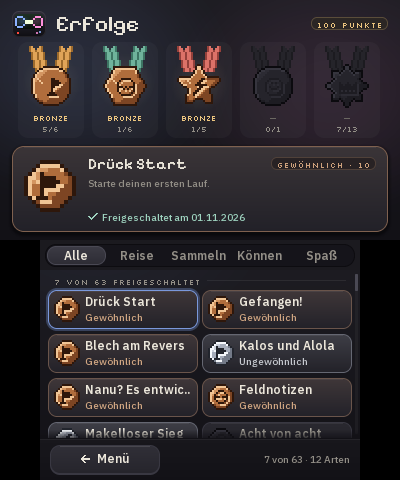
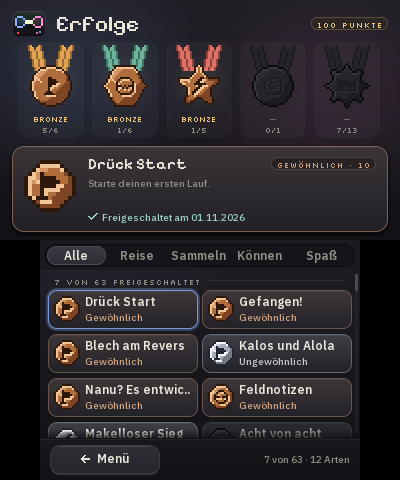
Medals: emblems in the middle – odd grid with a centre column, emblems centred by their ink
Same fix as the desktop app's 002c367: 25×32 cells with the body centred on cell (12, 20), ribbon
tails at 4…10 / 14…20, emblems trimmed to their ink and placed at CX − ceil((w−1)/2). The coins
place their emblems the same way. Test: every kind and tier has a mirror-symmetric body and the
emblem's ink centre at most half a cell up/left of the body's centre. Screenshots re-rendered.

diff --git a/common/ui.cpp b/common/ui.cpp
@@ -522,14 +522,31 @@ static bool medalInside(int kind, float x, float y) {
   }
 }
 
-// a body (shape) with outline, bevel lit from the top left, sheen and an engraved emblem, into `grid` (0 = empty)
-static void metalBody(uint32_t *grid, int W, int H, float CX, float CY, bool (*inside)(int, float, float), int kind, const uint32_t *pal,
-                      bool locked, const char *const *em, int ew, int eh) {
-  auto in = [&](int x, int y) { return x >= 0 && y >= 0 && x < W && y < H && inside(kind, x - CX, y - CY); };
+// the part of an emblem that has ink (some – the crown – don't fill their 9×9 box)
+struct Ink {
+  int x0 = 0, y0 = 0, w = 0, h = 0;
+};
+static Ink emblemInk(const char *const *em, int ew, int eh) {
+  int x0 = ew, x1 = -1, y0 = eh, y1 = -1;
+  for (int j = 0; j < eh; j++)
+    for (int i = 0; i < ew; i++)
+      if (em[j][i] == '#') x0 = std::min(x0, i), x1 = std::max(x1, i), y0 = std::min(y0, j), y1 = std::max(y1, j);
+  Ink k;
+  if (x1 < 0) return k;
+  k.x0 = x0, k.y0 = y0, k.w = x1 - x0 + 1, k.h = y1 - y0 + 1;
+  return k;
+}
+
+// a body (shape) with outline, bevel lit from the top left, sheen and an engraved emblem, into `grid` (0 = empty).
+// The centre (CX, CY) is a whole cell of an odd-sized body, so it has a middle column and row; the emblem's ink goes
+// onto it (an even extent leans up/left – the light lip below-right evens it out). `k`: the bevel's scale (1 = medal).
+static void metalBody(uint32_t *grid, int W, int H, int CX, int CY, bool (*inside)(int, float, float), int kind, const uint32_t *pal,
+                      bool locked, const char *const *em, int ew, int eh, float k, int *inkBox = nullptr) {
+  auto in = [&](int x, int y) { return x >= 0 && y >= 0 && x < W && y < H && inside(kind, (float)(x - CX), (float)(y - CY)); };
   for (int y = 0; y < H; y++)
     for (int x = 0; x < W; x++) {
       if (!in(x, y)) continue;
-      float dx = x - CX, dy = y - CY;
+      float dx = (float)(x - CX), dy = (float)(y - CY);
       uint32_t col;
       if (!in(x - 1, y) || !in(x + 1, y) || !in(x, y - 1) || !in(x, y + 1)) col = pal[0];
       else {
@@ -538,24 +555,27 @@ static void metalBody(uint32_t *grid, int W, int H, float CX, float CY, bool (*i
         if (rim) col = lit ? pal[4] : pal[1];
         else {
           float d = dx + dy;
-          col = d < -9 * (W / 24.f) ? pal[3] : d < 6 * (W / 24.f) ? pal[2] : pal[1];
-          if (!locked && std::fabs(dx - dy + 3 * (W / 24.f)) <= 0.6f && d < -5 * (W / 24.f)) col = pal[4];
+          col = d < -9 * k ? pal[3] : d < 6 * k ? pal[2] : pal[1];
+          if (!locked && std::fabs(dx - dy + 3 * k) <= 0.6f && d < -5 * k) col = pal[4];
         }
       }
       grid[y * W + x] = col | 0xff000000u;
     }
-  int ox = (int)std::lround(CX - ew / 2.f + 0.5f), oy = (int)std::lround(CY - eh / 2.f + 0.5f);
+  Ink ink = emblemInk(em, ew, eh);
+  if (!ink.w) return;
+  int ox = CX - ink.w / 2, oy = CY - ink.h / 2;  // = CX - ceil((w - 1) / 2)
+  if (inkBox) inkBox[0] = ox, inkBox[1] = oy, inkBox[2] = ox + ink.w - 1, inkBox[3] = oy + ink.h - 1;
+  auto at = [&](int i, int j) { return i >= 0 && j >= 0 && i < ink.w && j < ink.h && em[ink.y0 + j][ink.x0 + i] == '#'; };
   uint32_t groove = (locked ? pal[1] : pal[0]) | 0xff000000u, lip = (locked ? pal[3] : pal[4]) | 0xff000000u;
-  for (int j = 0; j < eh; j++)
-    for (int i = 0; i < ew; i++) {
-      if (em[j][i] != '#') continue;
+  for (int j = 0; j < ink.h; j++)
+    for (int i = 0; i < ink.w; i++) {
+      if (!at(i, j)) continue;
       int x = ox + i + 1, y = oy + j + 1;
-      bool nextIsGroove = j + 1 < eh && i + 1 < ew && em[j + 1][i + 1] == '#';
-      if (x < W && y < H && grid[y * W + x] && !nextIsGroove) grid[y * W + x] = lip;
+      if (x < W && y < H && grid[y * W + x] && !at(i + 1, j + 1)) grid[y * W + x] = lip;
     }
-  for (int j = 0; j < eh; j++)
-    for (int i = 0; i < ew; i++)
-      if (em[j][i] == '#' && grid[(oy + j) * W + ox + i]) grid[(oy + j) * W + ox + i] = groove;
+  for (int j = 0; j < ink.h; j++)
+    for (int i = 0; i < ink.w; i++)
+      if (at(i, j) && grid[(oy + j) * W + ox + i]) grid[(oy + j) * W + ox + i] = groove;
 }
 
 static void blitGrid(Canvas &c, int x, int y, const uint32_t *grid, int W, int H, int s) {
@@ -566,9 +586,13 @@ static void blitGrid(Canvas &c, int x, int y, const uint32_t *grid, int W, int H
     }
 }
 
-void drawMedal(Canvas &c, int x, int y, int kind, int tier, int scale) {
-  const int W = 24, H = 31;
-  uint32_t grid[W * H] = {};
+static const int MEDAL_SHAPE[5] = {0, 1, 2, 0, 4};  // journey circle, collection hexagon, skill star, fun circle, champion burst
+
+MedalCells medalCells(int kind, int tier) {
+  MedalCells m;
+  m.px.assign(MedalCells::W * MedalCells::H, 0);
+  uint32_t *grid = m.px.data();
+  const int W = MedalCells::W;
   bool locked = tier < 0;
   const uint32_t *pal = METALS[locked ? 5 : std::min(tier, 4)];
   kind = std::max(0, std::min(4, kind));
@@ -576,7 +600,7 @@ void drawMedal(Canvas &c, int x, int y, int kind, int tier, int scale) {
   uint32_t rib0 = locked ? 0x25242a : RIBBONS[kind][0], rib1 = locked ? 0x1c1b20 : RIBBONS[kind][1];
   for (int yy = 0; yy < 13; yy++) {
     int lean = (int)std::lround((12 - yy) / 4.0);
-    int tails[2][2] = {{4 - lean, 10 - lean}, {13 + lean, 19 + lean}};
+    int tails[2][2] = {{4 - lean, 10 - lean}, {14 + lean, 20 + lean}};
     for (auto &t : tails) {
       float mid = (t[0] + t[1]) / 2.f;
       for (int xx = t[0]; xx <= t[1]; xx++) {
@@ -586,9 +610,17 @@ void drawMedal(Canvas &c, int x, int y, int kind, int tier, int scale) {
       }
     }
   }
-  static const int SHAPE[5] = {0, 1, 2, 0, 4};  // journey circle, collection hexagon, skill star, fun circle, champion burst
-  metalBody(grid, W, H, 11.5f, 19.5f, medalInside, SHAPE[kind], pal, locked, EMBLEMS[kind], 9, kind == 4 ? 7 : 9);
-  blitGrid(c, x, y, grid, W, H, scale);
+  int box[4] = {0, 0, -1, -1};
+  metalBody(grid, W, MedalCells::H, MedalCells::CX, MedalCells::CY, medalInside, MEDAL_SHAPE[kind], pal, locked, EMBLEMS[kind], 9, 9, 1.f, box);
+  for (int i = 0; i < 4; i++) m.ink[i] = box[i];
+  for (int y = 0; y < MedalCells::H; y++)
+    for (int x = 0; x < W; x++) m.body.push_back(medalInside(MEDAL_SHAPE[kind], (float)(x - MedalCells::CX), (float)(y - MedalCells::CY)));
+  return m;
+}
+
+void drawMedal(Canvas &c, int x, int y, int kind, int tier, int scale) {
+  MedalCells m = medalCells(kind, tier);
+  blitGrid(c, x, y, m.px.data(), MedalCells::W, MedalCells::H, scale);
 }
 
 static bool coinInside(int, float x, float y) { return x * x + y * y <= 6.4f * 6.4f; }
@@ -598,7 +630,7 @@ void drawCoin(Canvas &c, int x, int y, int scale, int cat, int rarity, bool lock
   uint32_t grid[W * H] = {};
   const uint32_t *pal = METALS[locked ? 5 : std::max(0, std::min(4, rarity))];
   const char *const *em = COIN7[locked ? (hidden ? 5 : 4) : std::max(0, std::min(3, cat))];
-  metalBody(grid, W, H, 6.f, 6.f, coinInside, 0, pal, locked, em, 7, 7);
+  metalBody(grid, W, H, 6, 6, coinInside, 0, pal, locked, em, 7, 7, 13 / 24.f);
   blitGrid(c, x, y, grid, W, H, scale);
 }
 

diff --git a/common/ui.h b/common/ui.h
@@ -86,7 +86,16 @@ void drawProgress(Canvas &c, int x, int y, int w, int h, int n, int total, Color
 void drawPips(Canvas &c, int x, int y, int n, int total, Color on);  // badges: small diamonds
 void drawPageDots(Canvas &c, int cx, int y, int n, int active);
 // achievements: the desktop app's computed pixel medals (kind 0..3 category, 4 champion; tier -1 locked … 4 master)
-void drawMedal(Canvas &c, int x, int y, int kind, int tier, int scale = 2);  // 24×31 cells
+void drawMedal(Canvas &c, int x, int y, int kind, int tier, int scale = 2);  // 25×32 cells
+// a medal's cells: colours (0 = empty), the body's shape, the emblem's ink box (x0, y0, x1, y1) – the body is
+// centred on a whole cell (CX, CY) of an odd-sized grid, so it has a middle column and the emblem can sit in it
+struct MedalCells {
+  static constexpr int W = 25, H = 32, CX = 12, CY = 20;
+  std::vector<uint32_t> px;
+  std::vector<bool> body;
+  int ink[4] = {0, 0, -1, -1};
+};
+MedalCells medalCells(int kind, int tier);
 // an achievement's coin (13×13 cells): metal by rarity, the category's emblem; locked: dark with a lock / "?"
 void drawCoin(Canvas &c, int x, int y, int scale, int cat, int rarity, bool locked, bool hidden);
 // a dark translucent band behind the action buttons at the bottom of a screen

diff --git a/host/tests.cpp b/host/tests.cpp
@@ -679,6 +679,21 @@ static void testScreens() {
   CHECK(ts.handle(in, st) == TrophyAction::Changed && ts.filter == 1);
   in.pressed = K_B;
   CHECK(ts.handle(in, st) == TrophyAction::Back);
+  // medals (the desktop app's fix 002c367): the body is mirror-symmetric about its centre column, and the emblem's ink
+  // centre sits on the body's centre or at most half a cell up / left of it – for every kind and tier
+  for (int kind = 0; kind < 5; kind++)
+    for (int tier = -1; tier < 5; tier++) {
+      MedalCells m = medalCells(kind, tier);
+      bool sym = true;
+      for (int y = 0; y < MedalCells::H; y++)
+        for (int d = 1; d <= MedalCells::CX; d++)
+          if (MedalCells::CX + d < MedalCells::W)
+            sym = sym && m.body[y * MedalCells::W + MedalCells::CX - d] == m.body[y * MedalCells::W + MedalCells::CX + d];
+      CHECK(sym);
+      float cx = (m.ink[0] + m.ink[2]) / 2.f, cy = (m.ink[1] + m.ink[3]) / 2.f;
+      CHECK(m.ink[2] >= m.ink[0] && cx <= MedalCells::CX && cx >= MedalCells::CX - 0.5f && cy <= MedalCells::CY && cy >= MedalCells::CY - 0.5f);
+      CHECK(m.body[MedalCells::CY * MedalCells::W + MedalCells::CX]);
+    }
   // a screen change blends the two pictures
   Canvas a(8, 2), b(8, 2), o(8, 2);
   a.clear(Color(0, 0, 0));

diff --git a/common/screens.cpp b/common/screens.cpp
@@ -1037,10 +1037,10 @@ void TrophyScreen::draw(Canvas &top, Canvas &bottom, const RunStore &store) {
     int x = mx + i * 74;
     top.roundRect(x, 42, 66, 96, 10, Color(255, 255, 255, 8));
     if (m.tier >= 0) top.glow(x + 33, 82, 34, 34, rgb(0xfff1ad, 22));
-    drawMedal(top, x + 9, 46, m.kind, m.tier, 2);
-    top.text(font_label, x, 112, m.tier >= 0 ? tierLabel(m.tier) : "\xe2\x80\x94", m.tier >= 0 ? th::warnInk : th::ink4, 66, ALIGN_CENTER);
+    drawMedal(top, x + 8, 45, m.kind, m.tier, 2);
+    top.text(font_label, x, 113, m.tier >= 0 ? tierLabel(m.tier) : "\xe2\x80\x94", m.tier >= 0 ? th::warnInk : th::ink4, 66, ALIGN_CENTER);
     std::string v = m.next ? fmt("%d/%d", m.value, m.next) : std::string(tr("MAX", "MAX"));
-    top.text(font_label, x, 123, v, th::ink3, 66, ALIGN_CENTER);
+    top.text(font_label, x, 124, v, th::ink3, 66, ALIGN_CENTER);
   }
   if (!shown_.empty()) {
     const TrophyState &s = states[shown_[focus]];

diff --git a/REPORT.md b/REPORT.md
@@ -17,6 +17,11 @@ game yet.
 | **Moments** the engine now records: badge times, evolutions (with a card), exactly 1 HP, badges earned underlevelled, trainer battles started over the cap, a monotype team of six, each death's killer (species, level, trainer) | `common/nuzlocke.cpp`, `RunStats` | `ingame_evolved` |
 | Faster drawing for the ARM11 (no divide instruction): blending and glows without divisions per pixel, backdrops cached in the launcher | `common/gfx.cpp`, `drawBackdrop` | – |
 
+Medals follow the desktop app's centring fix (its commit 002c367): a 25×32 grid with the body centred on a whole cell
+(12, 20), so it has a middle column; ribbon tails at 4…10 / 14…20; emblems trimmed to their ink and placed with
+`CX − ceil((w−1)/2)` – a test checks every kind and tier (mirror-symmetric body, ink centre at most half a cell up/left).
+The achievement coins (13×13, centre 6, 6) place their emblems the same way.
+
 Achievements left out (not observable on the 3DS or not for a solo run): SoulLink, randomizer, cheats, nicknames,
 "seen" species, Gen 1–5 dexes. Adapted: badges in Alola = grand trials (two per trial for "Eight for Eight"), "Kalos
 and Alola" instead of "all generations".
@@ -69,7 +74,7 @@ Decisions worth knowing:
 | **Plugin end to end in Azahar** (Azahar's 3GX plugin loader, CTRPF, memory reads, engine, overlays on the game's screen, corner tab, souldew screens over the paused game, run file written) | `tools/emu_test.py plugin`: the mock game plays town → Route 2 → wild Fletchling (first encounter) → catch → forest → Fletchling again (dupe) → Froakie over cap 12 → trainer battle (cap badge) → Fletchling goes down (death) → badge 1 (cap 25) → achievements unlocked, their cards shown ("Blech am Revers" in `emu_plugin_trophy`). The plugin's run file afterwards: starter + Route 2 caught + forest dupe, Fletchling dead ("Purmel Lv 6 (Trainer)", killer 664), 1 badge with its time, 1 cap break, `profile.trophies` firstRun / firstCatch / firstBadge → `docs/screenshots/emu_plugin_*.png`, `docs/emu_plugin_runs.json` |
 | All screens in German and English | `docs/screenshots/launcher_*.png`, `ingame_*.png` (`*_en.png`): rendered on the computer by the console's drawing code; overlays composited through the plugin's blitter onto a placeholder picture |
 
-Unit tests: 255 checks, all passing (`./build.sh host`) – new: the engine's moments, achievements (unlock, once, kept in the profile, medals, run-file round trip, old files), the launcher screens' keys and taps, the transition.
+Unit tests: 345 checks, all passing (`./build.sh host`) – new: the engine's moments, achievements (unlock, once, kept in the profile, medals, run-file round trip, old files), the launcher screens' keys and taps, the transition.
 
 ## Needs a real console (and the games)
 
